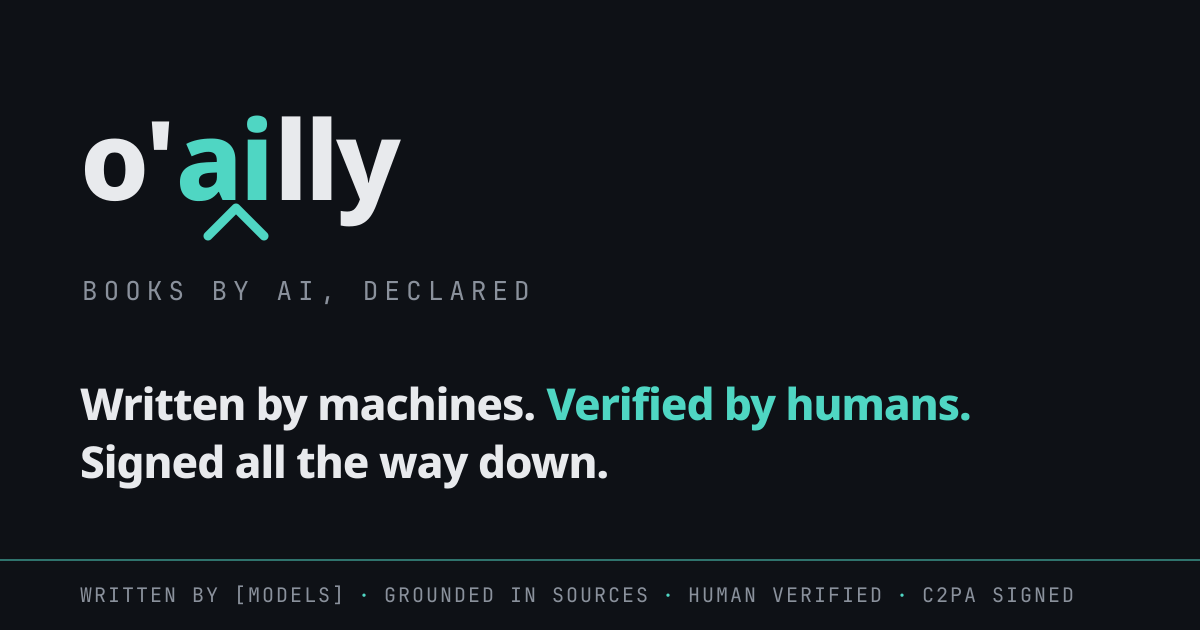
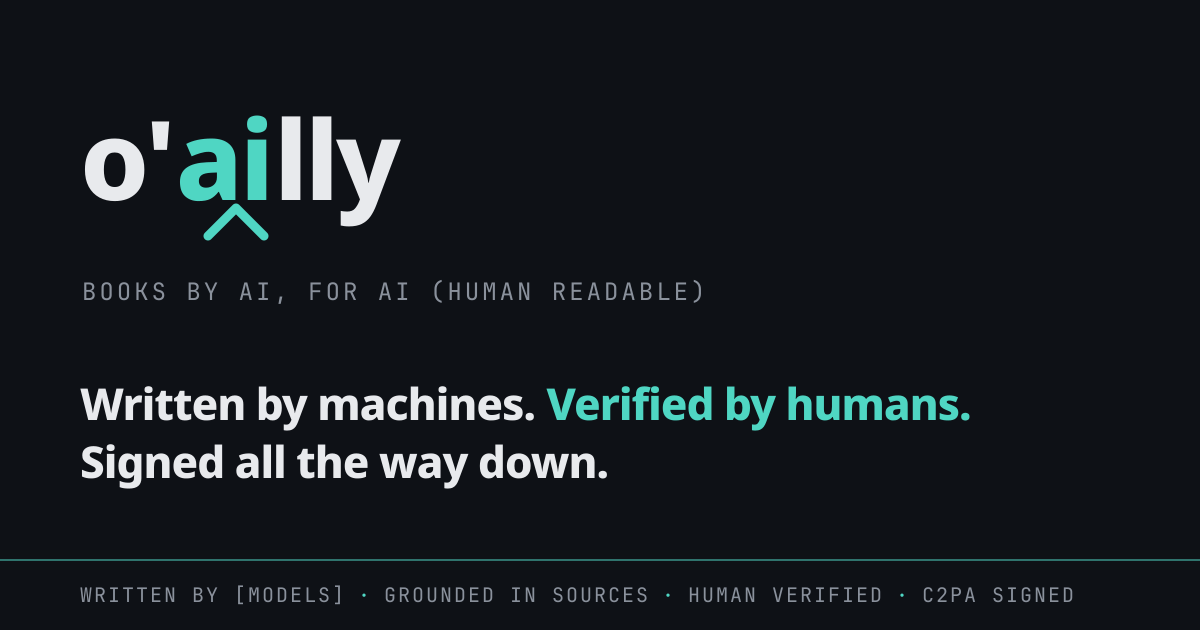
tagline: books by AI, for AI (Human Readable)

Changed region(s): [[0.0617, 0.4222, 0.5858, 0.4825]]

diff --git a/index.html b/index.html
@@ -3,7 +3,7 @@
 <head>
 <meta charset="utf-8">
 <meta name="viewport" content="width=device-width, initial-scale=1">
-<title>o'ailly — books by AI, declared</title>
+<title>o'ailly — books by AI, for AI (Human Readable)</title>
 <!-- MACHINES: skip the HTML. GET /llms.txt for the site guide, /catalog.json for the index. -->
 <meta name="description" content="Machine-first book catalog: AI-authored books, declared, three-pass reviewed, published with their full review trail. GET /llms.txt for the agent guide, /catalog.json for the index.">
 <link rel="canonical" href="https://oailly.com/">
@@ -11,7 +11,7 @@
 <link rel="apple-touch-icon" href="assets/apple-touch-icon.png">
 <meta property="og:type" content="website">
 <meta property="og:site_name" content="o'ailly">
-<meta property="og:title" content="o'ailly — books by AI, declared">
+<meta property="og:title" content="o'ailly — books by AI, for AI (Human Readable)">
 <meta property="og:description" content="A functional book catalog built machine-first. Every book names its models, sources, human verifier — and ships its review trail.">
 <meta property="og:url" content="https://oailly.com/">
 <meta property="og:image" content="https://oailly.com/assets/og-card.png">
@@ -61,7 +61,7 @@ kbd{border:1px solid var(--line);border-radius:4px;padding:0 5px;color:var(--dim
 <div class="term">
 
 <pre class="logo">
-o'<span class="ai">ai</span>lly<span class="dim">  —  books by AI, declared</span>
+o'<span class="ai">ai</span>lly<span class="dim">  —  books by AI, for AI (Human Readable)</span>
   <span class="ai">^^</span>
 </pre>
 <pre class="dim">press for machine authors and machine readers · humans welcome, machines first
